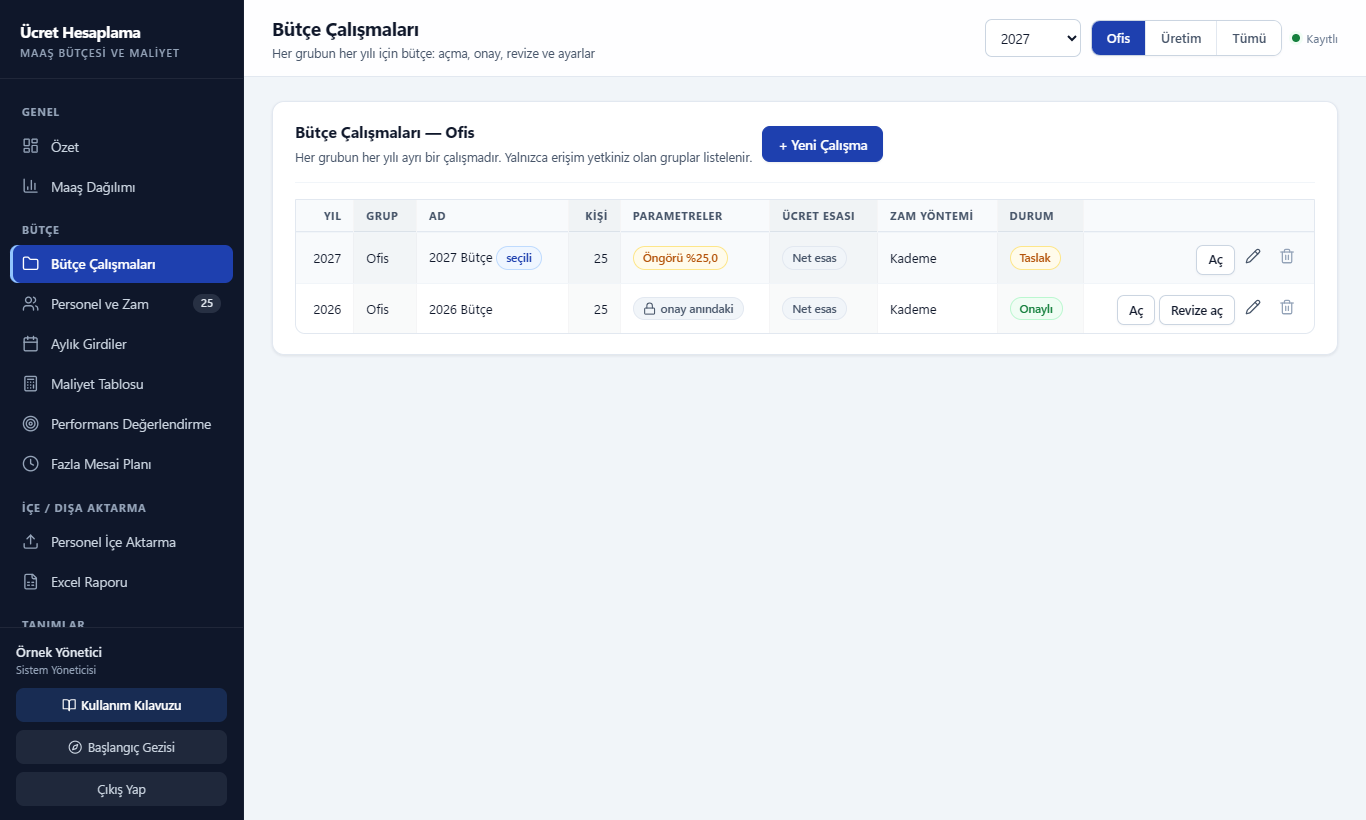
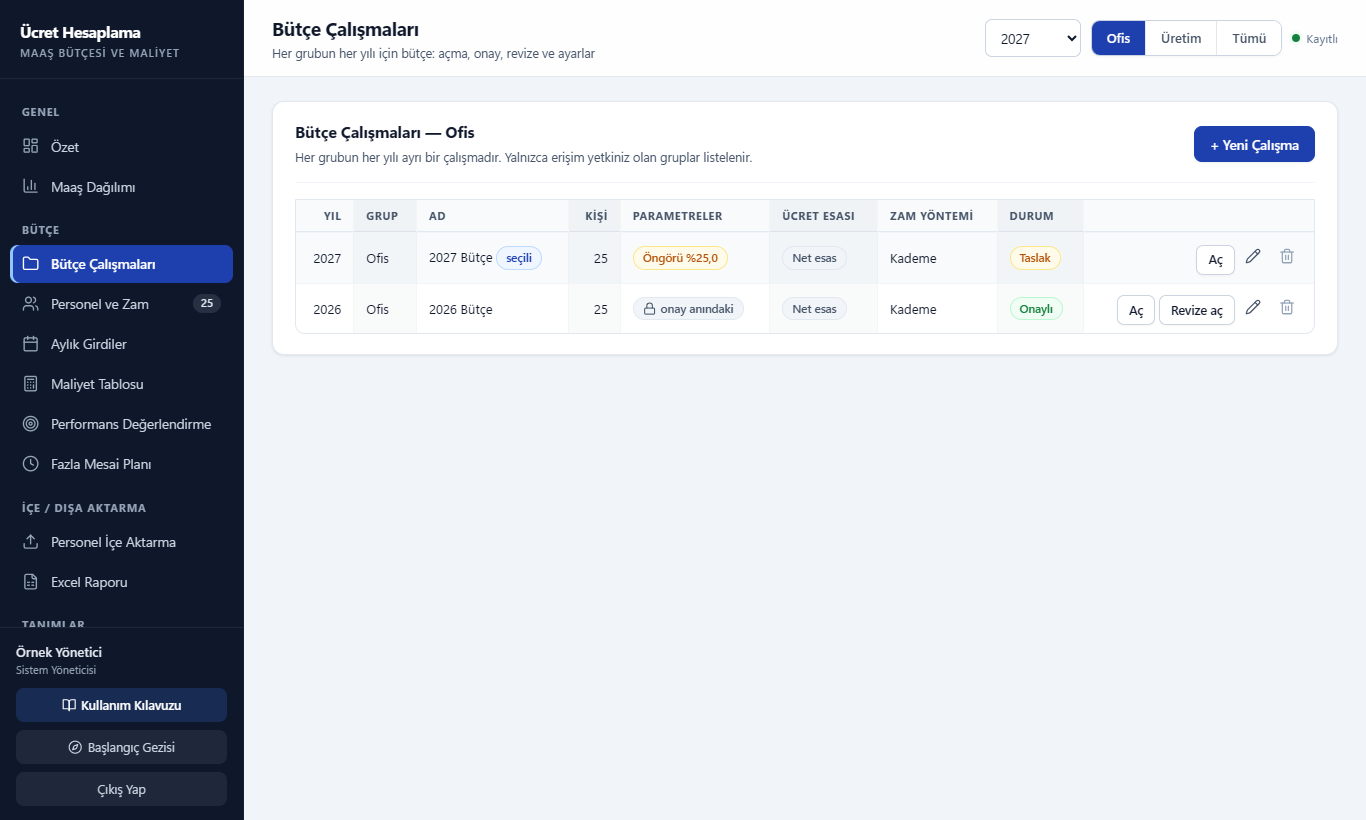
Kişi bilgileri tablodan düzenlenir; kutu hizaları düzeltildi
Personel ve Zam → Kişi Bilgileri sekmesinde bütçe bölümü, yaka, işe giriş,
çıkış, hesaplama türü, kanun, AR-GE GV teşviki, sakatlık, BES, zam ayı ve
performans puanı / çarpanı kişi kartını açmadan, hücredeki kutulardan
değiştirilir. Kayıt kartla aynı yoldan geçer (calismaPersonelKaydet):
aynı denetimler, dönem tarihi koruması ve işlem kaydı. Kayıttan sonra
kaydırma konumu ve odak korunur; onaylı çalışmada kutular çıkmaz.

Hiza: kart başlığındaki düğme ve süzgeçler sağa yaslanır; satır içi
etiketteki ve başlıktaki açılır kutular tam genişlik alıp alta düşmez;
tablo hücresindeki metin, sayı ve seçim kutuları aynı boyda; form
alanındaki küçük sayı kutusu diğer alanlarla aynı boyda.

Changed region(s): [[0.8609, 0.1524, 0.9839, 0.2134], [0.5534, 0.1524, 0.6457, 0.2134]]

diff --git a/program/js/modules/personel.js b/program/js/modules/personel.js
@@ -6,6 +6,9 @@
    yeni yıl maaşı ile yıllık maliyet. Maaş ve tutarlar çalışmanın ücret
    esasındadır (net ya da brüt — B.esas); etiketler esası izler.
    Düzeltme hücresine doğrudan yazılır (Enter ya da hücreden çıkış).
+   Kişi Bilgileri sekmesinde temel tanımlar (bütçe bölümü, yaka, tarihler,
+   hesaplama türü, kanun, teşvik, sakatlık, BES, zam ayı, performans) de
+   tablodan değiştirilir; kayıt kişi kartıyla aynı yoldan geçer.
    ===================================================================== */
 (function () {
   'use strict';
@@ -75,6 +78,25 @@
     // Kişi bilgileri
     const turAd = {}; API.hesapTuruListe(c.yil).forEach(t => { turAd[t.kod] = t.ad; });
     const kanunAd = {}; API.kanunListe().forEach(k => { kanunAd[k.kod] = k.ad; });
+    if (yetki.pYaz) {
+      const turler = API.hesapTuruListe(c.yil).map(t => ({ deger: t.kod, etiket: t.ad }));
+      const kanunlar = API.kanunListe().map(x => ({ deger: x.kod, etiket: x.ad }));
+      const perf = (b, alan, ondalik) => ({ b: b, v: s => yetki.zYaz ? hucreSayi(s, alan, s.kp[alan], b, ondalik)
+        : (s.kp[alan] == null ? '' : B.tlDuz(s.kp[alan], ondalik)) });
+      return [
+        { b: 'Yaka', v: s => hucreSec(s, 'yaka', SECENEK.yaka, s.kp.yaka, null, 'Yaka') },
+        { b: 'İşe Giriş', v: s => hucreTarih(s, 'ise_giris', tarihler(s.kp).giris, 'İşe giriş') },
+        { b: 'Çıkış', v: s => hucreTarih(s, 'isten_ayrilis', tarihler(s.kp).cikis, 'Çıkış') + cikisNotu(s.kp) },
+        { b: 'Hesaplama Türü', v: s => hucreSec(s, 'hesap_turu', turler, s.kp.hesap_turu, null, 'Hesaplama türü') },
+        { b: 'Kanun', v: s => hucreSec(s, 'kanun', kanunlar, s.kp.kanun || 'YOK', null, 'Kanun') },
+        { b: 'AR-GE GV Teşvik', v: s => hucreSec(s, 'gv_tesvik', SECENEK.gv, s.kp.gv_tesvik || 0, null, 'AR-GE GV teşvik') },
+        { b: 'Sakatlık', v: s => hucreSec(s, 'sakatlik_derece', SECENEK.sakatlik, s.kp.sakatlik_derece, 'Yok', 'Sakatlık') },
+        { b: 'BES', v: s => hucreSec(s, 'bes', SECENEK.bes, s.kp.bes, '—', 'BES') },
+        { b: 'Zam Ayı', v: s => hucreSec(s, 'zam_ayi', C.aySecenekleri(s.kp.zam_ayi || 1), null, null, 'Zam ayı') },
+        perf('Performans Puanı', 'performans_puani', 1),
+        perf('Performans Çarpanı', 'performans_carpani', 2),
+      ];
+    }
     return [
       { b: 'Yaka', v: s => s.kp.yaka === 'M' ? '<span class="rz rz-mavi">Mavi</span>' : '<span class="rz rz-gri">Beyaz</span>' },
       { b: 'İşe Giriş', v: s => U.tarihGoster(s.kp.ise_giris) },
@@ -91,6 +113,53 @@
   }
 
 
+
+  /* ---------- Kişi Bilgileri: tablodan düzenleme ---------- */
+  const SECENEK = {
+    yaka: [{ deger: 'B', etiket: 'Beyaz' }, { deger: 'M', etiket: 'Mavi' }],
+    gv: [{ deger: 0, etiket: 'Yok' }, { deger: 0.8, etiket: '%80' }, { deger: 0.9, etiket: '%90' }, { deger: 0.95, etiket: '%95' }],
+    sakatlik: [{ deger: 1, etiket: '1. derece' }, { deger: 2, etiket: '2. derece' }, { deger: 3, etiket: '3. derece' }],
+    bes: [{ deger: 'EVET', etiket: 'Katılıyor' }, { deger: 'HAYIR', etiket: 'Katılmıyor' }],
+  };
+  /* Çalışmanın kendi dönem tarihleri varsa (onay_sabit = 2) kartta olduğu gibi onlar düzenlenir */
+  const tarihler = kp => kp.onay_sabit === 2 ? { giris: kp.onay_giris, cikis: kp.onay_cikis } : { giris: kp.ise_giris, cikis: kp.isten_ayrilis };
+  /* Onaydan sonra kartta değişen çıkış (onaylı maliyete girmez) — düzenlenebilir hücrenin yanında da görünür */
+  function cikisNotu(kp) {
+    if (kp.onay_sabit !== 1 || (kp.isten_ayrilis || null) === (kp.onay_cikis || null)) return '';
+    return ' <span class="rz rz-sari" title="Personel kartında onaydan sonra değişti; onaylı maliyete girmez">onayda ' +
+      (kp.onay_cikis ? U.tarihGoster(kp.onay_cikis) : 'çıkış yok') + '</span>';
+  }
+  const hucreOz = (s, alan, baslik) => `data-alan="${alan}" data-tc="${U.esc(s.kp.tc_kimlik_no)}" aria-label="${U.esc(baslik + ' — ' + s.kp.ad_soyad)}"`;
+  const hucreSec = (s, alan, liste, deger, bos, baslik) => `<select class="hucre-secim" ${hucreOz(s, alan, baslik)}>${
+    typeof liste === 'string' ? liste : C.secenekler(liste, deger, bos)}</select>`;
+  const hucreTarih = (s, alan, deger, baslik) => `<input type="date" class="hucre-tarih" ${hucreOz(s, alan, baslik)} value="${U.esc(deger || '')}">`;
+  const hucreSayi = (s, alan, deger, baslik, ondalik) => `<input class="hucre-girdi" ${hucreOz(s, alan, baslik)} value="${deger == null ? '' : B.tlDuz(deger, ondalik)}">`;
+
+  /* Tek alanı kaydeder. Performans alanları zam.yaz ile doğrudan yazılır; diğerleri kişi kartının kaydıyla
+     (calismaPersonelKaydet) — aynı denetimler, dönem tarihi koruması ve işlem kaydı. */
+  function hucreKaydet(c, tc, alan, deger) {
+    if (alan === 'performans_puani' || alan === 'performans_carpani') return API.calismaPersonelAlanYaz(c.id, tc, alan, deger);
+    const k = API.calismaPersonelGetir(c.id, tc);
+    const f = Object.assign({}, k, k.onay_sabit === 2 ? { ise_giris: k.onay_giris, isten_ayrilis: k.onay_cikis } : {});
+    if (alan === 'ise_giris' || alan === 'isten_ayrilis') {
+      const y = deger ? Number(deger.slice(0, 4)) : null;
+      if (y && (y < 1900 || y > 2200)) throw new Error('Tarih geçersiz: ' + deger);
+    }
+    f[alan] = ['gv_tesvik', 'sakatlik_derece', 'zam_ayi'].indexOf(alan) >= 0 ? (deger === '' ? null : Number(deger)) : deger;
+    /* Sakatlık indirimi dereceden, yılın tablosundan gelir (kartta da öyle) */
+    if (alan === 'sakatlik_derece') f.ozurlu_indirimi = f.sakatlik_derece ? API.sakatlikTutari(c.yil, f.sakatlik_derece) : null;
+    API.calismaPersonelKaydet(c.id, f, tc);
+  }
+
+  /* Hücre kaydından sonra ekran yeniden çizilir; kaydırma konumu ve odak korunur (sıradaki hücreye geçilebilsin) */
+  function tazeleKoru(odak) {
+    const y = window.scrollY, sar = document.querySelector('#icerik .tablo-sar'), x = sar ? sar.scrollLeft : 0;
+    APP.tazele();
+    window.scrollTo(0, y);
+    const yeniSar = document.querySelector('#icerik .tablo-sar');
+    if (yeniSar) yeniSar.scrollLeft = x;
+    if (odak) { const e = document.querySelector(odak); if (e) e.focus({ preventScroll: true }); }
+  }
 
   // Renk grubu değişen sütunun soluna kalın ayırıcı çizgi
   function sinir(S, i) { return S[i].g && (i === 0 || S[i - 1].g !== S[i].g) ? ' grup-sinir' : ''; }
@@ -126,7 +195,10 @@
     const aciklama = {
       zam: 'Tutarlar ' + B.esasBuyuk(c) + '. Zam öngörüsü: ' + U.esc(yontem) + ' (Bütçe Çalışmaları ekranından değiştirilir). DÜZELTME yönetimin ' +
            'müdahalesidir; öngörülen zamma eklenir, eksi olabilir.',
-      kisi: 'Hesaplamayı belirleyen bilgiler. Değiştirmek için kişinin adına tıklayın; yıl içi değişiklikler Aylık Girdiler\'den.',
+      kisi: yetki.pYaz
+        ? 'Hesaplamayı belirleyen bilgiler; hücreden doğrudan değiştirilir ve hemen kaydedilir (Ocak\'tan geçerli). Tarih ve sayılar ' +
+          'hücreden çıkınca ya da Enter ile kaydedilir. Diğer bilgiler için kişinin adına tıklayın; yıl içi değişiklikler Aylık Girdiler\'den.'
+        : 'Hesaplamayı belirleyen bilgiler. Ayrıntı için kişinin adına tıklayın; yıl içi değişiklikler Aylık Girdiler\'den.',
     }[sekme];
 
     kap.innerHTML = `
@@ -137,7 +209,7 @@
             <div class="kart-aciklama">${aciklama}</div>
           </div>
           <div class="btn-satir">
-            <input id="ara" placeholder="Ad veya T.C. ile ara (Esc: temizle)" type="search" value="${U.esc(arama)}" style="min-width:200px">
+            <input id="ara" placeholder="Ad veya T.C. ile ara (Esc: temizle)" type="search" value="${U.esc(arama)}" style="min-width:250px">
             <select id="bolumSuz">${C.secenekler(bolumler.map(b => ({ deger: b.ad, etiket: API.bolumEtiket(c.grup_kod, b.ad) })), bolumSuz, 'Tüm bölümler')}</select>
             <select id="yakaSuz">${C.secenekler([{ deger: 'B', etiket: 'Beyaz yaka' }, { deger: 'M', etiket: 'Mavi yaka' }], yakaSuz, 'Tüm yakalar')}</select>
             ${yetki.pYaz ? '<button class="btn" id="yeniBtn">+ Yeni Personel</button>' : ''}
@@ -154,7 +226,9 @@
           <tbody>${satirlar.map(s => `<tr>
             <td>${yetki.pYaz ? `<button class="ikon-btn satir-sil ad-sil" data-sil="${U.esc(s.kp.tc_kimlik_no)}" title="Bütçeden çıkar">🗑</button>` : ''}<a href="#" data-kart="${U.esc(s.kp.tc_kimlik_no)}">${U.esc(s.kp.ad_soyad)}</a>
               ${cikisHtml(s.kp, true)}</td>
-            <td class="kucuk">${U.esc(API.bolumEtiket(c.grup_kod, s.kp.butce_bolumu))}</td>
+            <td class="kucuk">${sekme === 'kisi' && yetki.pYaz
+              ? hucreSec(s, 'butce_bolumu', bolumler.map(b => ({ deger: b.ad, etiket: API.bolumEtiket(c.grup_kod, b.ad) })), s.kp.butce_bolumu, '—', 'Bütçe bölümü')
+              : U.esc(API.bolumEtiket(c.grup_kod, s.kp.butce_bolumu))}</td>
             ${S.map((k, i) => `<td class="${liste}hucre-${k.g || 'yok'}${sinir(S, i)}">${k.v(s)}</td>`).join('')}
           </tr>`).join('')}
           <tr class="toplam-satir"><td>Toplam (${satirlar.length} kişi)</td><td></td>
@@ -174,11 +248,32 @@
         if (inp.value === eski) return;
         try {
           API.calismaPersonelAlanYaz(c.id, inp.getAttribute('data-duz'), 'duzeltme', inp.value.trim());
-          APP.tazele();
+          tazeleKoru(null);
         } catch (e) { U.bildir(e.message, 'hata'); }
       };
       inp.addEventListener('keydown', e => { if (e.key === 'Enter') kaydet(); });
       inp.addEventListener('blur', kaydet);
+    });
+
+    /* Kişi Bilgileri hücreleri: seçim kutusu değişince, tarih ve sayı hücreden çıkınca / Enter'da kaydedilir */
+    kap.querySelectorAll('[data-alan][data-tc]').forEach(el => {
+      const eski = el.value, alan = el.getAttribute('data-alan'), tc = el.getAttribute('data-tc');
+      const secici = x => x && x.getAttribute && x.getAttribute('data-alan') && x.getAttribute('data-tc')
+        ? `#icerik [data-alan="${x.getAttribute('data-alan')}"][data-tc="${x.getAttribute('data-tc')}"]` : null;
+      let bitti = false;
+      /* odak: yeniden çizimden sonra odaklanacak hücre — Enter / seçimde aynı hücre, Tab ile çıkışta gidilen hücre */
+      const kaydet = odak => {
+        if (bitti || el.value === eski) return;
+        bitti = true;
+        try { hucreKaydet(c, tc, alan, el.value.trim()); }
+        catch (e) { U.bildir(e.message, 'hata'); }
+        tazeleKoru(odak);
+      };
+      if (el.tagName === 'SELECT') el.addEventListener('change', () => kaydet(secici(el)));
+      else {
+        el.addEventListener('blur', e => kaydet(secici(e.relatedTarget)));
+        el.addEventListener('keydown', e => { if (e.key === 'Enter') { e.preventDefault(); kaydet(secici(el)); } });
+      }
     });
 
     kap.addEventListener('click', e => {

diff --git a/program/css/butce.css b/program/css/butce.css
@@ -13,6 +13,15 @@ th.num, td.num{text-align:right;}
 .genis-tablo th:first-child, .genis-tablo td:first-child{position:sticky; left:0; background:var(--surface); z-index:1;}
 .hucre-girdi{width:92px; text-align:right; padding:3px 7px; font-size:12px; min-height:28px; border-radius:6px;}
 .hucre-girdi.degisti{background:var(--warn-soft);}
+/* Tablo hücresindeki bütün kutular aynı boyda: metin, sayı ve seçim kutusu yan yana dursa da satır dengeli kalır */
+:where(table td) :is(input:not([type=checkbox]):not([type=radio]):not([type=hidden]):not([type=file]), select){
+  min-height:28px; padding:3px 7px; font-size:12px; border-radius:6px;}
+/* Personel ve Zam → Kişi Bilgileri: hücreden düzenlenen seçim ve tarih kutuları (sayı kutusuyla aynı boy) */
+.hucre-secim, .hucre-tarih{width:auto; min-height:28px; padding:3px 7px; font-size:12px; border-radius:6px;}
+.hucre-secim{max-width:240px; padding-right:4px;}
+.hucre-tarih{width:132px;}
+/* Tablo hücresi için küçük kutu bir form alanında kullanılırsa diğer alanlarla aynı boyda durur */
+.alan > .hucre-girdi{min-height:36px; padding:8px 11px; font-size:13.5px; width:120px; border-radius:var(--r-sm);}
 .devralan{color:var(--ink-fade);}
 .sekme-cubuk{display:flex; gap:6px; flex-wrap:wrap; margin-bottom:12px;}
 .sekme-cubuk .btn-ikincil.etkin{background:var(--accent); color:#fff; border-color:var(--accent);}
@@ -96,7 +105,8 @@ table td + td, table th + th{border-left:1px solid rgba(15,23,42,0.045);}
 .suzgec-satir{display:flex; flex-wrap:wrap; gap:8px; align-items:center;}
 .suzgec-satir > input, .suzgec-satir > select{width:auto; flex:0 0 auto;}
 .suzgec-satir > label.satir{display:inline-flex; gap:6px; align-items:center; margin:0;}
-.suzgec-satir > label.satir input{width:auto;}
+.suzgec-satir > label.satir{flex-wrap:nowrap;}
+.suzgec-satir > label.satir input, .suzgec-satir > label.satir select{width:auto;}
 
 /* Yazma kilidi şeridi (görüntüleme kipi; bkz. js/core/kilit.js) */
 .kilit-serit{

diff --git a/program/js/modules/kilavuz.js b/program/js/modules/kilavuz.js
@@ -108,11 +108,16 @@
       <ul>
         <li><strong>Zam Çalışması:</strong> zam öngörüsü, <strong>Düzeltme</strong> hücresi ve sonuç. Düzeltme, öngörülen zamma eklenir; eksi olabilir.
           Hücreye yazıp Enter'a basın ya da başka bir hücreye geçin.</li>
-        <li><strong>Kişi Bilgileri:</strong> hesabı belirleyen bilgiler (yaka, hesaplama türü, kanun, giriş-çıkış…).</li>
+        <li><strong>Kişi Bilgileri:</strong> hesabı belirleyen bilgiler: bütçe bölümü, yaka, işe giriş ve çıkış tarihi, hesaplama türü,
+          kanun, AR-GE GV teşviki, sakatlık, BES, zam ayı, performans puanı ve çarpanı. Bunları kişi kartını açmadan, doğrudan
+          <strong>tablodaki kutulardan</strong> değiştirebilirsiniz: seçim kutusunda seçtiğiniz an, tarih ve sayıda Enter'a basınca ya da
+          başka bir kutuya geçince kaydedilir ve maliyet yeniden hesaplanır. Değişiklik Ocak'tan geçerlidir; yıl içinde değişen bilgi
+          için Aylık Girdiler'i kullanın. Onaylı çalışmada kutular çıkmaz.</li>
       </ul>
       <h4>Kişi kartı</h4>
       <p>Kişinin adına tıklayınca kart açılır. Bütçe bölümü, giriş/çıkış tarihi, yaka, hesaplama türü (SSK / EMK / SGK'sız), kanun (teşvik),
-        AR-GE GV teşvik oranı, sakatlık, BES, önceki yıl maaşı, zam ayı, düzeltme ve not buradan değiştirilir.</p>
+        AR-GE GV teşvik oranı, sakatlık, BES, önceki yıl maaşı, zam ayı, düzeltme ve not buradan değiştirilir. Kartla tablodaki kutular aynı
+        kaydı kullanır; hangisinden değiştirirseniz değiştirin aynı denetimlerden geçer.</p>
       <ul>
         <li><strong>+ Yeni Personel:</strong> T.C. yazınca kişi programda daha önce varsa bilgileri kendiliğinden gelir.</li>
         <li><strong>🗑 Bütçeden çıkar:</strong> kişiyi bu çalışmadan çıkarır; personel kaydı ve geçmiş yıllar etkilenmez.

diff --git a/program/css/app.css b/program/css/app.css
@@ -163,6 +163,9 @@ main{flex:1; min-width:0; display:flex; flex-direction:column;}
 }
 .kart-baslik h2{display:flex; align-items:center; gap:8px;}
 .kart-baslik .sag{margin-left:auto; display:flex; gap:8px; align-items:center;}
+/* Başlık bloğu kalan yeri alır: yanındaki düğme ve süzgeçler sağa yaslanır */
+.kart-baslik > :first-child:not(:last-child){flex:1 1 0; min-width:min(360px, 45%);}
+.kart-baslik > .btn-satir{justify-content:flex-end; flex:0 1 auto;}
 .kart-aciklama{font-size:12.5px; color:var(--ink-soft); margin:-8px 0 14px; line-height:1.55;}
 
 .izgara{display:grid; gap:14px;}
@@ -233,6 +236,8 @@ legend{font-size:12px; font-weight:700; color:var(--ink-soft); padding:0 6px; te
 .btn-tehlike:hover{background:var(--danger-dark); border-color:var(--danger-dark);}
 .btn-kucuk{min-height:30px; padding:4px 11px; font-size:12.5px; border-radius:7px;}
 .btn-satir{display:flex; gap:8px; flex-wrap:wrap; align-items:center;}
+/* Satır içindeki kutular tam genişlik almaz (alt alta dizilmesinler) */
+.btn-satir > select, .btn-satir > input:not([type=checkbox]):not([type=radio]){width:auto;}
 
 /* ---------- Tablo ---------- */
 .tablo-sar{overflow-x:auto; border:1px solid var(--line); border-radius:var(--r); background:var(--surface);}

diff --git a/program/js/modules/parametre.js b/program/js/modules/parametre.js
@@ -43,7 +43,7 @@
           <div class="btn-satir">
             <select id="prmYilSec">${C.secenekler(yillar.length ? yillar : [yil], yil)}</select>
             ${durum.ongoru ? '<span class="rz rz-ongoru">Öngörü</span>' : '<span class="rz rz-yesil">Resmî</span>'}
-            ${yaz && durum.ongoru ? '<button class="btn btn-ikincil btn-kucuk" id="resmiBtn">Resmî rakamlar girildi</button>' : ''}
+            ${yaz && durum.ongoru ? '<button class="btn btn-ikincil" id="resmiBtn">Resmî rakamlar girildi</button>' : ''}
           </div>
         </div>
         ${(() => { const on = API.yilOnayliCalismalar(yil); return on.length ? `<div class="uyari uyari-bilgi"><span class="ik">🔒</span><div>

diff --git a/docs/04-ekranlar-ve-dosya-bicimleri.md b/docs/04-ekranlar-ve-dosya-bicimleri.md
@@ -601,17 +601,17 @@ En küçük ya da en büyük maaşa eşit bütün satırlar sarı zeminlidir (`t
 
 **Kaynak:** `js/modules/personel.js` (`ciz`, `ozetKutulari`, `sutunlar`, `sinir`, `cikisHtml`, `formAc`, `gecmisHtml`, `sil`); `api.js:calismaHesapla, calismaPersonelListe, calismaPersonelAlanYaz`.
 **Yer:** Bütçe → 👥 Personel ve Zam. Menü rozeti = seçili çalışmadaki kişi sayısı (0 ise ve Tümü'de rozet yok; §1.3). Başlık "Personel ve Zam", alt başlık "Bütçe satırları, zam öngörüsü ve düzeltme".
-**Yetki:** görmek `personel.oku`. "Zam Çalışması" sekmesi ve üst özet kutuları `zam.oku`. Düzeltme hücresi: yazılabilir + `zam.yaz`. **+ Yeni Personel**, 🗑 ve kart kaydı: yazılabilir + `personel.yaz`.
+**Yetki:** görmek `personel.oku`. "Zam Çalışması" sekmesi ve üst özet kutuları `zam.oku`. Düzeltme hücresi ve performans hücreleri: yazılabilir + `zam.yaz`. **+ Yeni Personel**, 🗑, kart kaydı ve Kişi Bilgileri hücreleri: yazılabilir + `personel.yaz`.
 **Tümü:** hayır (§1.6 bilgi kutusu).
 
 **Amaç:** Bütçenin ana ekranı. Her satır bir kişinin bütçe satırıdır: önceki yıl maaşı (çalışmanın esasında), zam öngörüsü (kademe / performans), yönetimin düzeltmesi, yeni yıl maaşı, yıllık maliyet.
 
 **Kart başlığı:** "Personel ve Zam — <yıl> · <grup adı>" + esas rozeti (§2.17); altında sekmeye göre açıklama:
 - zam: "Tutarlar <ES>. Zam öngörüsü: <maaş kademesi | sabit oran>[ × performans çarpanı] (Bütçe Çalışmaları ekranından değiştirilir). DÜZELTME yönetimin müdahalesidir; öngörülen zamma eklenir, eksi olabilir." (yöntem `calisma.zam_kademe` / `zam_performans` bayraklarından).
-- kisi: "Hesaplamayı belirleyen bilgiler. Değiştirmek için kişinin adına tıklayın; yıl içi değişiklikler Aylık Girdiler'den."
+- kisi (düzenlenebilirken): "Hesaplamayı belirleyen bilgiler; hücreden doğrudan değiştirilir ve hemen kaydedilir (Ocak'tan geçerli). Tarih ve sayılar hücreden çıkınca ya da Enter ile kaydedilir. Diğer bilgiler için kişinin adına tıklayın; yıl içi değişiklikler Aylık Girdiler'den."; salt okunurken: "Hesaplamayı belirleyen bilgiler. Ayrıntı için kişinin adına tıklayın; yıl içi değişiklikler Aylık Girdiler'den."
 
 **Süzgeçler** (başlığın sağında, `.btn-satir`):
-- Arama `#ara` (type=search, en az 200 px, yer tutucu "Ad veya T.C. ile ara (Esc: temizle)") — canlı arama (§2.9). Eşleşme: ad `U.normalize` ile içerir **ya da** T.C. ham alt dize (aranan metnin baş/son boşluğu atılır).
+- Arama `#ara` (type=search, en az 250 px, yer tutucu "Ad veya T.C. ile ara (Esc: temizle)") — canlı arama (§2.9). Eşleşme: ad `U.normalize` ile içerir **ya da** T.C. ham alt dize (aranan metnin baş/son boşluğu atılır).
 - Bölüm `#bolumSuz`: "Tüm bölümler" + grubun bütçe bölümleri (etiketli, sıra numarasıyla). Seçili bölüm bu grupta yoksa süzgeç kendiliğinden düşer (liste boş görünmesin diye).
 - Yaka `#yakaSuz`: "Tüm yakalar" / "Beyaz yaka" / "Mavi yaka".
 - **+ Yeni Personel** (yazılabilir + `personel.yaz`) → boş kişi kartı (§3.3.1).
@@ -652,29 +652,42 @@ Başlık ve hücre sınıfları renk grubundan gelir (`bas-<g>`, `hucre-<g>`; §
 | 9 | `<O>` Toplam Maliyet | mal | `kp.maliyet_onceki` (kişi kartından ya da Personel İçe Aktarma'dan, §3.10) | — | Σ |
 | 10 | Fark | mal | maliyet − maliyet_onceki (`B.isaretli`) | — | Σ(8) − Σ(9) |
 
-Tutar hücreleri `B.tl` (kuruşsuz, sıfır soluk "—"). Düzeltme kaydı: **Enter** ya da odak kaybında, değer değiştiyse `API.calismaPersonelAlanYaz(c.id, tc, 'duzeltme', metin)` → ekran tazelenir. Boş = 0 (`CP_SAYISAL`). API `zam.yaz` + yazılabilir çalışma ister; hata bildirimle.
+Tutar hücreleri `B.tl` (kuruşsuz, sıfır soluk "—"). Düzeltme kaydı: **Enter** ya da odak kaybında, değer değiştiyse `API.calismaPersonelAlanYaz(c.id, tc, 'duzeltme', metin)` → ekran tazelenir (kaydırma konumu korunur, `tazeleKoru`). Boş = 0 (`CP_SAYISAL`). API `zam.yaz` + yazılabilir çalışma ister; hata bildirimle.
 
-**Sekme "Kişi Bilgileri"** (`sutunlar(c, 'kisi')`; renk grubu yok, sayı hizası yok, toplam satırında yalnız ilk hücre)
+**Sekme "Kişi Bilgileri"** (`sutunlar(c, 'kisi', yetki)`; renk grubu yok, sayı hizası yok, toplam satırında yalnız ilk hücre)
 
-| Başlık | Kaynak |
-|---|---|
-| Yaka | mavi rozet "Mavi" / gri rozet "Beyaz" |
-| İşe Giriş | `kp.ise_giris` (GG.AA.YYYY) |
-| Çıkış | `cikisHtml(kp, false)` (düz tarih + gerekiyorsa "sonradan" rozeti) |
-| Hesaplama Türü | yılın hesap türü adı (`API.hesapTuruListe(yıl)`), yoksa kod, o da yoksa "—" (küçük) |
-| Kanun | kanun türü adı (`API.kanunListe`); `YOK` ya da boş → "—" (küçük) |
-| AR-GE GV Teşvik | `kp.gv_tesvik` (`B.oran`; 0 ise boş) |
-| Sakatlık | "N. derece" (yoksa boş) |
-| BES | "Katılıyor" (`EVET`) / "Katılmıyor" (`HAYIR`) / boş |
-| Zam Ayı | ay adı (`zam_ayi`; boşsa Ocak) |
-| Performans Puanı | 1 ondalık (boşsa boş) |
-| Performans Çarpanı | 2 ondalık (boşsa boş) |
+Yazılabilir çalışmada ve `personel.yaz` yetkisinde hücreler **düzenlenebilir kutudur** (kişi kartını açmadan değiştirilir);
+değilse düz metin. Bütçe Bölümü sütunu da bu sekmede seçim kutusudur.
+
+| Başlık | Salt okunur | Düzenlenebilir (`data-alan`) |
+|---|---|---|
+| Bütçe Bölümü | bölüm etiketi | seçim: "—" + grubun bölümleri (`butce_bolumu`) |
+| Yaka | mavi rozet "Mavi" / gri rozet "Beyaz" | seçim: Beyaz / Mavi (`yaka`) |
+| İşe Giriş | `kp.ise_giris` (GG.AA.YYYY) | tarih kutusu (`ise_giris`; `onay_sabit = 2` ise çalışmanın kendi `onay_giris`'i) |
+| Çıkış | `cikisHtml(kp, false)` (düz tarih + gerekiyorsa "sonradan" rozeti) | tarih kutusu (`isten_ayrilis`; `onay_sabit = 2` ise `onay_cikis`) + onaydan sonra değiştiyse sarı "onayda <tarih>" rozeti (`cikisNotu`) |
+| Hesaplama Türü | yılın hesap türü adı, yoksa kod, o da yoksa "—" (küçük) | seçim: yılın hesaplama türleri (`hesap_turu`) |
+| Kanun | kanun türü adı; `YOK` ya da boş → "—" (küçük) | seçim: kanun türleri (`kanun`) |
+| AR-GE GV Teşvik | `B.oran` (0 ise boş) | seçim: Yok / %80 / %90 / %95 (`gv_tesvik`) |
+| Sakatlık | "N. derece" (yoksa boş) | seçim: Yok / 1.–3. derece (`sakatlik_derece`); özürlü indirimi yılın tablosundan yeniden yazılır |
+| BES | "Katılıyor" / "Katılmıyor" / boş | seçim: — / Katılıyor / Katılmıyor (`bes`) |
+| Zam Ayı | ay adı (boşsa Ocak) | seçim: aylar (`zam_ayi`) |
+| Performans Puanı | 1 ondalık (boşsa boş) | sayı kutusu (`performans_puani`) — ayrıca `zam.yaz` ister, yoksa düz metin |
+| Performans Çarpanı | 2 ondalık (boşsa boş) | sayı kutusu (`performans_carpani`) — ayrıca `zam.yaz` ister |
+
+**Hücreden kayıt** (`personel.js:hucreKaydet`): seçim kutusu değişince; tarih ve sayı kutusu Enter'da ya da odak
+kaybında (değer değiştiyse). Performans alanları `API.calismaPersonelAlanYaz` ile; diğerleri kişi kartının kaydıyla:
+güncel satır (`API.calismaPersonelGetir`) alınır, yalnız o alan değiştirilir ve `API.calismaPersonelKaydet` çağrılır —
+denetimler, dönem tarihi koruması (`donemTarihleriniKoru`) ve işlem kaydı kartla aynıdır. Yılı 1900–2200 dışındaki tarih
+"Tarih geçersiz: …" bildirimiyle reddedilir; API hatası bildirilir ve hücre eski değerine döner. Kayıttan sonra ekran
+yeniden çizilir; sayfa ve tablonun kaydırma konumu korunur, odak aynı hücreye (Enter / seçim) ya da Tab ile geçilen
+hücreye döner (`tazeleKoru`). Kutular `.hucre-secim`, `.hucre-tarih`, `.hucre-girdi` (28 px, tablo boyu); her birinin
+`aria-label`'ı "<sütun> — <ad soyad>".
 
 **Toplam satırı:** "Toplam (N kişi)" + boş + sütun toplamları (yalnız süzülen satırlar).
 
 **Satır işlemleri:** ada tıklama → kişi kartı (`API.calismaPersonelGetir` ile güncel satır). 🗑 → Bütçeden Çıkar onayı (§3.3.2).
 
-**Klavye/odak:** Düzeltme hücresinde Enter ya da başka yere geçiş kaydeder; kayıttan sonra ekran baştan çizilir ve sayfa en üste döner (bu ekranda kaydırma / odak koruması yalnız arama kutusu içindir, §2.9).
+**Klavye/odak:** Düzeltme ve Kişi Bilgileri hücrelerinde Enter ya da başka yere geçiş kaydeder; kayıttan sonra ekran baştan çizilir, sayfa ve tablonun kaydırma konumu korunur; Kişi Bilgileri'nde odak aynı ya da Tab ile geçilen hücreye döner.
 
 #### 3.3.1 Pencere — Kişi kartı ("Yeni Personel" / kişinin adı)
 

diff --git a/docs/03-is-kurallari-ve-yetkiler.md b/docs/03-is-kurallari-ve-yetkiler.md
@@ -253,7 +253,8 @@ Kaynak: `js/db/api.js:ayOf`, `calismaHesapla` (`eskiYilda`); `js/core/hesap.js:z
 ### 3.4 Hücreden hızlı giriş (`calismaPersonelAlanYaz`)
 - Yalnız bir alanı yazar; alan `CP_ALANLAR`'da olmalıdır ("Bilinmeyen alan").
 - Yetki: `duzeltme`, `performans_puani`, `performans_carpani` → `zam.yaz`; diğerleri (`maas_eski` dâhil) → `personel.yaz`. Hepsi `calismaYazIste` (grup yazma + taslak) ister.
-- Kullanımlar: Zam sekmesindeki **Düzeltme** hücresi ve Excel Raporu'ndan yönetim düzeltmelerinin geri yüklenmesi (§5.2). Her yazma ayrı bir `GUNCELLE` kaydı üretir.
+- Kullanımlar: Zam sekmesindeki **Düzeltme** hücresi, Kişi Bilgileri sekmesindeki **performans puanı / çarpanı** hücreleri ve Excel Raporu'ndan yönetim düzeltmelerinin geri yüklenmesi (§5.2). Her yazma ayrı bir `GUNCELLE` kaydı üretir.
+- **Kişi Bilgileri hücreleri** (bütçe bölümü, yaka, işe giriş, çıkış, hesaplama türü, kanun, AR-GE GV teşviki, sakatlık, BES, zam ayı) bu yolu **kullanmaz**: hücre değişince güncel satır alınır, yalnız o alan değiştirilir ve kart kaydı (`calismaPersonelKaydet`, §3.3) çağrılır. Böylece yaka denetimi, tarih kuralı (`onay_sabit`, `donemTarihleriniKoru`) ve sakatlık derecesinden özürlü indirimi kartla aynı işler; koşul da aynıdır (`calismaYazilabilir` + `personel.yaz`). Yılı 1900–2200 dışındaki tarih ekranda reddedilir (`personel.js:hucreKaydet`).
 
 ### 3.5 Bütçeden çıkarma (`calismaPersonelSil`)
 - Koşul: `calismaYazIste(id, 'personel.yaz')`. Ekran: satırdaki 🗑 ve kartta "Bütçeden çıkar".

diff --git a/README.md b/README.md
@@ -23,6 +23,8 @@ Bordro, İK ve finans ekipleri için yazıldı. Kurulum gerektirmez: internetsiz
   yıl maaşı ile yeni maaş hep aynı esastadır; işveren maliyeti iki esasta da aynı formülle çıkar.
 - **Zam öngörüsü.** Maaş kademesine göre oran: alt eşiğin altına üst oran, üst eşiğin üstüne alt oran, arada
   doğrusal geçiş. İsteğe bağlı olarak performans çarpanı da uygulanır; yönetim kişi bazında düzeltme girebilir.
+- **Hızlı düzenleme.** Personelin temel tanımları (bütçe bölümü, yaka, giriş-çıkış, hesaplama türü, kanun, teşvik, sakatlık,
+  BES, zam ayı, performans) kişi kartının yanı sıra doğrudan tablodan, kutularla değiştirilir.
 - **Mini bordro.** Kişi × ay maliyet tablosu ve her kişi için 12 aylık bordro dökümü.
 - **Aylık girdiler.** Ayni yardım, prim, mesai, yakıt, çalışılan gün, AR-GE günü; yıl içinde hesaplama türü
   ya da kanun değişikliği.
